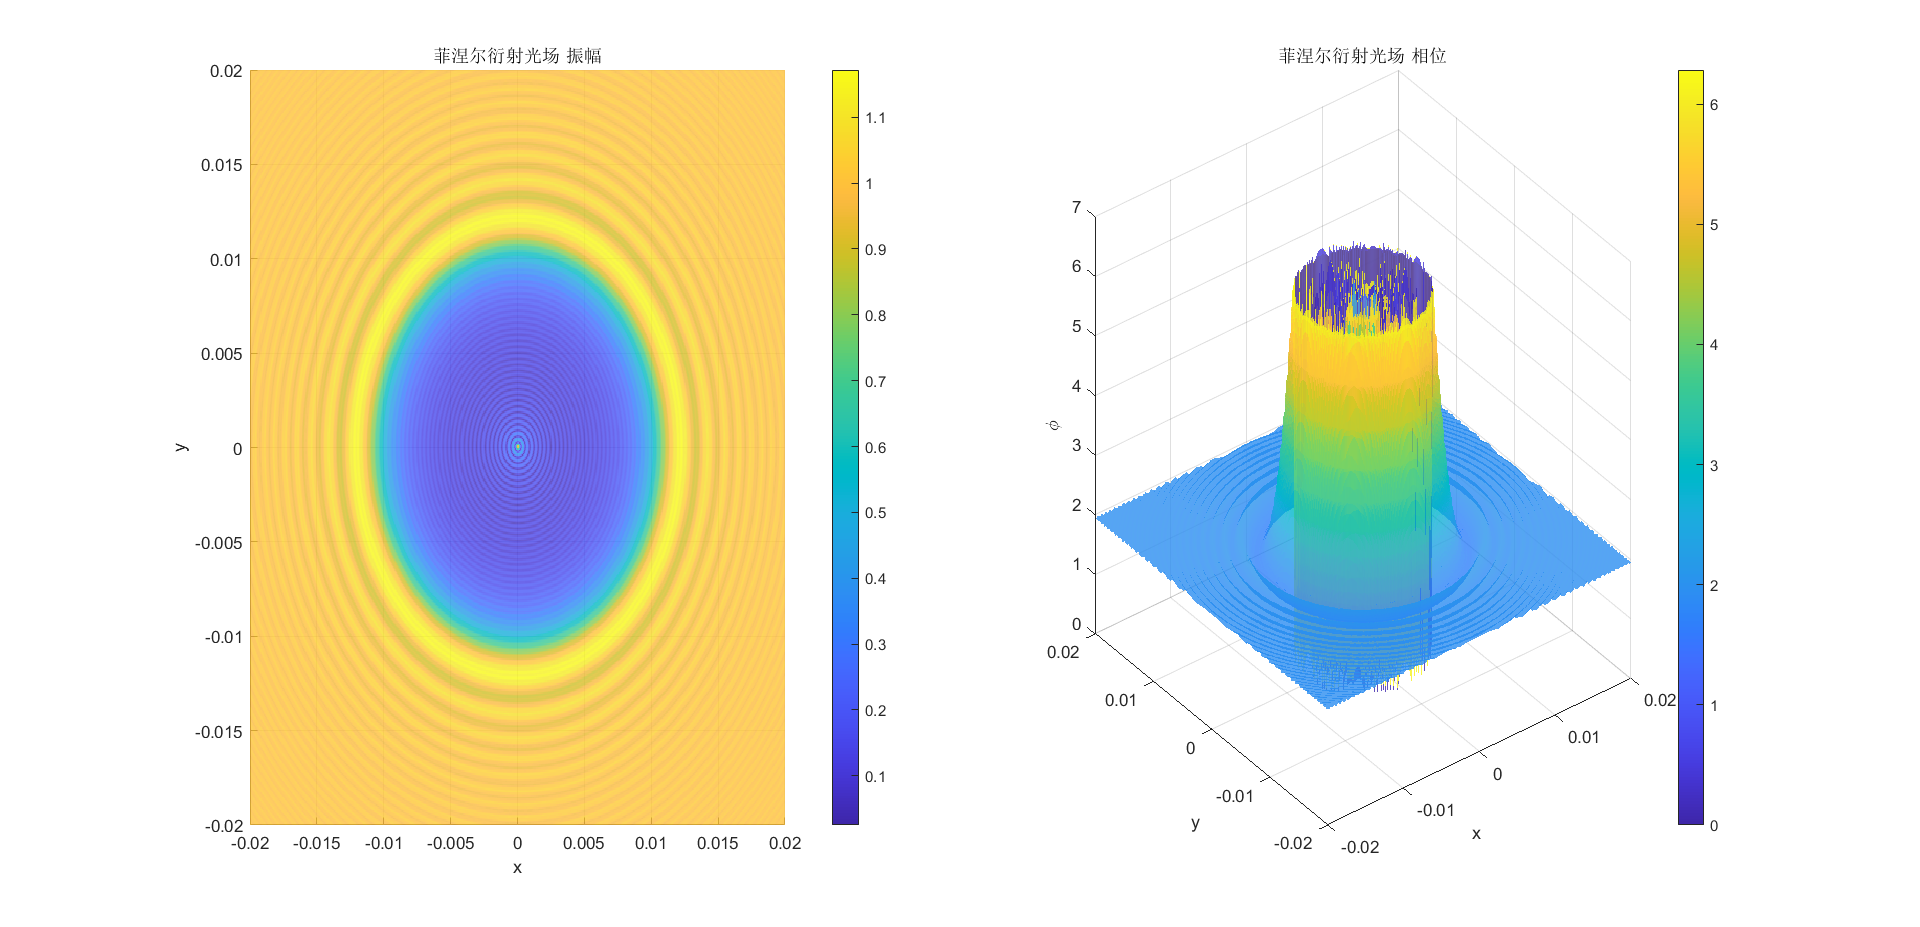
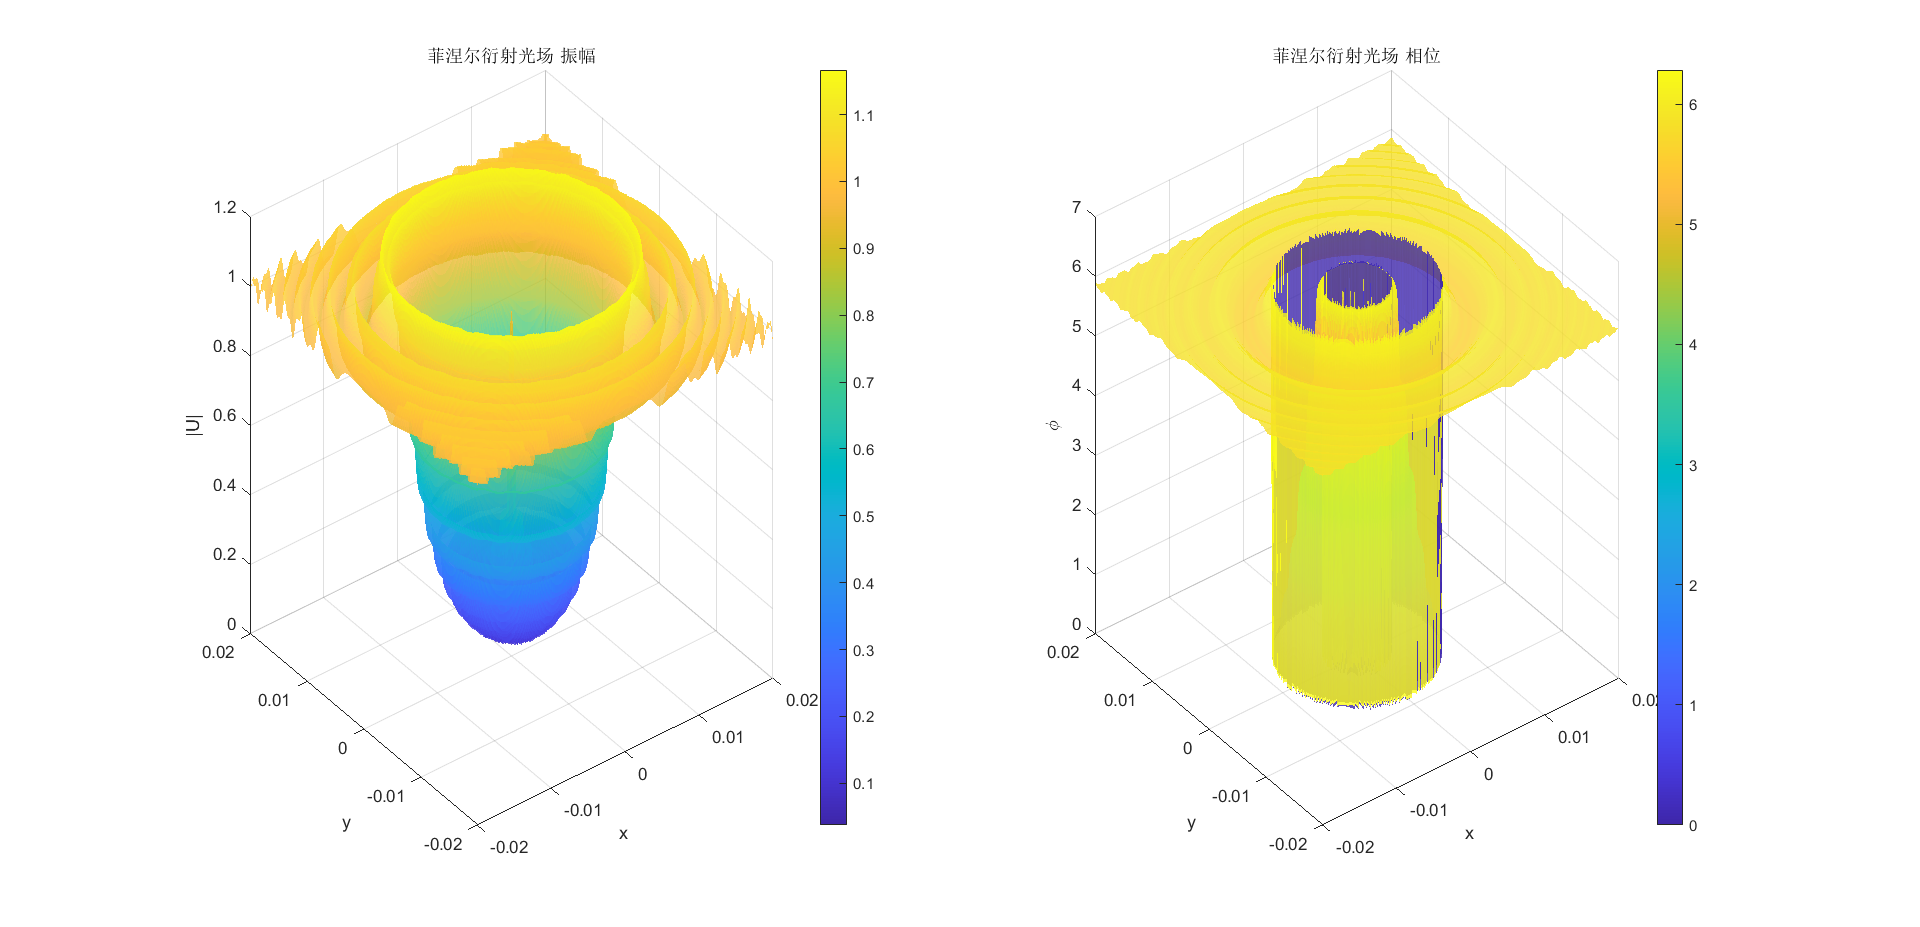
性能优化

diff --git a/task2_2.m b/task2_2.m
@@ -12,7 +12,7 @@ Xmin = -0.1;
 Xmax = 0.1;
 Ymin = -0.1;
 Ymax = 0.1;
-nn = 32; % 低分辨率
+nn = 1024; % 超高分辨率
 m = nn;
 n = nn;
 M = nn;
@@ -20,15 +20,15 @@ N = nn;
 
 ts = [];
 tic
-[Uc1, Ud1, Ud] = kirchhoff(Uc, xmin, xmax, ymin, ymax, m, n, lambda, z, Xmin, Xmax, Ymin, Ymax, M, N);
+% [Uc1, Ud1] = kirchhoff(Uc, xmin, xmax, ymin, ymax, m, n, lambda, z, Xmin, Xmax, Ymin, Ymax, M, N);
 ts(end+1) = toc; tic
-[Uc2, Ud2] = fresnel(Uc, xmin, xmax, ymin, ymax, m, n, lambda, z, Xmin, Xmax, Ymin, Ymax, M, N);
+% [Uc2, Ud2] = fresnel(Uc, xmin, xmax, ymin, ymax, m, n, lambda, z, Xmin, Xmax, Ymin, Ymax, M, N);
 ts(end+1) = toc; tic
-[Uc3, Ud3] = fresnel_fft(Uc, xmin, xmax, ymin, ymax, m, n, lambda, z, Xmin, Xmax, Ymin, Ymax, M, N);
+[Uc3, Ud3,] = fresnel_fft(Uc, xmin, xmax, ymin, ymax, m, n, lambda, z, Xmin, Xmax, Ymin, Ymax, M, N);
 ts(end+1) = toc; tic
-[Uc4, Ud4] = fraunhofer(Uc, xmin, xmax, ymin, ymax, m, n, lambda, z, Xmin, Xmax, Ymin, Ymax, M, N);
+% [Uc4, Ud4] = fraunhofer(Uc, xmin, xmax, ymin, ymax, m, n, lambda, z, Xmin, Xmax, Ymin, Ymax, M, N);
 ts(end+1) = toc; tic
-[Uc5, Ud5] = fraunhofer_fft(Uc, xmin, xmax, ymin, ymax, m, n, lambda, z, Xmin, Xmax, Ymin, Ymax, M, N);
+[Uc5, Ud5, Ud] = fraunhofer_fft(Uc, xmin, xmax, ymin, ymax, m, n, lambda, z, Xmin, Xmax, Ymin, Ymax, M, N);
 ts(end+1) = toc;
 
 x = linspace(xmin, xmax, m);
@@ -42,18 +42,18 @@ figs = [];
 figs(end+1) = subplot(3, 2, 1);
 surf(x, y, abs(Ud));
 title("初始光场U_0(x_0,y_0)")
-figs(end+1) = subplot(3, 2, 2);
-surf(X, Y, abs(Ud1));
-title("基尔霍夫衍射（SUM），用时："+ts(1)+"秒")
-figs(end+1) = subplot(3, 2, 3);
-surf(X, Y, abs(Ud2));
-title("菲涅尔衍射（SUM），用时："+ts(2)+"秒")
+% figs(end+1) = subplot(3, 2, 2);
+% surf(X, Y, abs(Ud1));
+% title("基尔霍夫衍射（SUM），用时："+ts(1)+"秒")
+% figs(end+1) = subplot(3, 2, 3);
+% surf(X, Y, abs(Ud2));
+% title("菲涅尔衍射（SUM），用时："+ts(2)+"秒")
 figs(end+1) = subplot(3, 2, 4);
 surf(X, Y, abs(Ud3));
 title("菲涅尔衍射（FFT），用时："+ts(3)+"秒")
-figs(end+1) = subplot(3, 2, 5);
-surf(X, Y, abs(Ud4));
-title("夫琅禾费衍射（SUM），用时："+ts(4)+"秒")
+% figs(end+1) = subplot(3, 2, 5);
+% surf(X, Y, abs(Ud4));
+% title("夫琅禾费衍射（SUM），用时："+ts(4)+"秒")
 figs(end+1) = subplot(3, 2, 6);
 surf(X, Y, abs(Ud5));
 title("夫琅禾费衍射（FFT），用时："+ts(5)+"秒")

diff --git a/kirchhoff.m b/kirchhoff.m
@@ -1,25 +1,22 @@
 function [Uc1, Ud1, Ud] = kirchhoff(Uc, xmin, xmax, ymin, ymax, m, n, lambda, z, Xmin, Xmax, Ymin, Ymax, M, N)
 %KIRCHHOFF 计算连续分布在特定取样条件下的基尔霍夫衍射积分初步近似
-%   小写字母为输入光场采样参数，大写字母为输入光场采样参数
+%   小写字母为输入光场采样参数，大写字母为输出光场采样参数
 %   lambda 波长
 %   z 传播距离
 
 k = 2 * pi / lambda;
-Ud = discretize(Uc, xmin, xmax, ymin, ymax, m, n);
+[Ud, x, y] = discretize(Uc, xmin, xmax, ymin, ymax, m, n);
 Ud1 = zeros(N, M);
-x = linspace(xmin, xmax, m);
-y = linspace(ymin, ymax, n);
-[x, y] = meshgrid(x, y);
 
 for i = 1:M
     X = (Xmax - Xmin) / (M - 1) * (i - 1) + Xmin;
     for j = 1:N
         Y = (Ymax - Ymin) / (N - 1) * (j - 1) + Ymin;
-        Ud1(j, i) = sum(Ud.*exp(1j*k*sqrt(z^2+(X - x).^2+(Y - y).^2)), "all");
+        Ud1(j, i) = sum(Ud.*exp(1j*k*sqrt(z^2+(x - X).^2+(y - Y).^2)), "all");
     end
 end
 
-Ud1 = Ud1/(1j * lambda * z) * (xmax - xmin) / (m - 1) * (ymax - ymin) / (n - 1);
+Ud1 = Ud1 / (1j * lambda * z) * (xmax - xmin) / (m - 1) * (ymax - ymin) / (n - 1);
 Uc1 = interpolate(Ud1, Xmin, Xmax, Ymin, Ymax);
 
 end

diff --git a/fraunhofer.m b/fraunhofer.m
@@ -5,11 +5,9 @@ function [Uc1, Ud1, Ud] = fraunhofer(Uc, xmin, xmax, ymin, ymax, m, n, lambda, z
 %   z 传播距离
 
 k = 2 * pi / lambda;
-Ud = discretize(Uc, xmin, xmax, ymin, ymax, m, n);
+[Ud, x, y] = discretize(Uc, xmin, xmax, ymin, ymax, m, n);
 Ud1 = zeros(N, M);
-x = linspace(xmin, xmax, m);
-y = linspace(ymin, ymax, n);
-[x, y] = meshgrid(x, y);
+
 for i = 1:M
     X = (Xmax - Xmin) / (M - 1) * (i - 1) + Xmin;
     for j = 1:N
@@ -21,7 +19,7 @@ end
 X = linspace(Xmin, Xmax, M);
 Y = linspace(Ymin, Ymax, N);
 [X, Y] = meshgrid(X, Y);
-Ud1 = Ud1 * exp(1j*k*z) / (1j * lambda * z) .* exp(1j * k * (X.^2 + Y.^2) / (2 * z)) * (xmax - xmin) / (m - 1) * (ymax - ymin) / (n - 1);
+Ud1 = Ud1 .* exp(1j*k*z+1j*k*(X.^2 + Y.^2)/(2 * z)) / (1j * lambda * z) * (xmax - xmin) / (m - 1) * (ymax - ymin) / (n - 1);
 Uc1 = interpolate(Ud1, Xmin, Xmax, Ymin, Ymax);
 
 end

diff --git a/myFFT2.m b/myFFT2.m
@@ -12,14 +12,15 @@ ix = 0:m - 1;
 iy = 0:n - 1;
 Ix = 0:M - 1;
 Iy = 0:N - 1;
+IX = [Ix, -m:-1];
+IY = [Iy, -n:-1];
 [ix, iy] = meshgrid(ix, iy);
 [Ix, Iy] = meshgrid(Ix, Iy);
+[IX, IY] = meshgrid(IX, IY);
 
 U1 = Ud .* exp(-1j*pi*(kx * kX * ix.^2 + ky * kY * iy.^2 + 2 * kx * Xmin * ix + 2 * ky * Ymin * iy));
-U1 = [U1, zeros(n, M); zeros(N, m+M)];
-U2 = [exp(1j*pi*(kx * kX * Ix.^2 + ky * kY * Iy.^2)), exp(1j*pi*(kx * kX * (ones(N, 1) .* (-m:-1)).^2 + ky * kY * ((0:N - 1)' .* ones(1, m)).^2)); ...
-    exp(1j*pi*(kx * kX * ((0:M - 1) .* ones(n, 1)).^2 + ky * kY * (ones(1, M) .* (-n:-1)').^2)), exp(1j*pi*(kx * kX * (ones(n, 1) .* (-m:-1)).^2 + ky * kY * (ones(1, m) .* (-n:-1)').^2))];
-
+U1(n+N, m+M) = 0;
+U2 = exp(1j*pi*(kx * kX * IX.^2 + ky * kY * IY.^2));
 Ud1 = ifft2(fft2(U1).*fft2(U2)); % 卷积定理
 % Ud1 = cconv2(U1, U2);
 

diff --git a/fresnel_fft.m b/fresnel_fft.m
@@ -5,10 +5,8 @@ function [Uc1, Ud1, Ud] = fresnel_fft(Uc, xmin, xmax, ymin, ymax, m, n, lambda, 
 %   z 传播距离
 
 k = 2 * pi / lambda;
-Ud = discretize(Uc, xmin, xmax, ymin, ymax, m, n);
-x = linspace(xmin, xmax, m);
-y = linspace(ymin, ymax, n);
-[x, y] = meshgrid(x, y);
+[Ud, x, y] = discretize(Uc, xmin, xmax, ymin, ymax, m, n);
+
 X = linspace(Xmin, Xmax, M);
 Y = linspace(Ymin, Ymax, N);
 [X, Y] = meshgrid(X, Y);
@@ -16,7 +14,7 @@ Y = linspace(Ymin, Ymax, N);
 t = 1 / (lambda * z); % 缩放因子
 Ud1 = myFFT2(Ud.*exp(1j*k/(2 * z)*(x.^2 + y.^2)), xmin, xmax, ymin, ymax, Xmin*t, Xmax*t, Ymin*t, Ymax*t, M, N);
 
-Ud1 = Ud1 * exp(1j*k*z) / (1j * lambda * z) .* exp(1j*k/(2 * z)*(X.^2 + Y.^2));
+Ud1 = Ud1 .* exp(1j*k*z+1j*k/(2 * z)*(X.^2 + Y.^2)) / (1j * lambda * z);
 Uc1 = interpolate(Ud1, Xmin, Xmax, Ymin, Ymax);
 
 end

diff --git a/discretize.m b/discretize.m
@@ -1,11 +1,20 @@
-function Ud = discretize(Uc, xmin, xmax, ymin, ymax, M, N)
+function [Ud, X, Y] = discretize(Uc, xmin, xmax, ymin, ymax, M, N)
 %DISCRETIZE 对给定连续分布离散取样
 %   Uc(x,y) 连续分布函数 Ud(X,Y) 离散分布矩阵
 %   xmin,xmax,ymin,ymax x,y方向分布范围
 %   M,N x,y方向离散取点数
-Ud = zeros(N, M);
-for i = 1:M
-    Ud(:, i) = arrayfun(@(y)Uc((xmax - xmin)/(M - 1)*(i - 1)+xmin, y), linspace(ymin, ymax, N));
-end
+
+% 未矢量化的方法
+% Ud = zeros(N, M);
+% for i = 1:M
+%     Ud(:, i) = arrayfun(@(y)Uc((xmax - xmin)/(M - 1)*(i - 1)+xmin, y), linspace(ymin, ymax, N));
+% end
+
+% 默认已矢量化
+X = linspace(xmin, xmax, M);
+Y = linspace(ymin, ymax, N);
+[X, Y] = meshgrid(X, Y);
+
+Ud = Uc(X, Y);
 
 end

diff --git a/fraunhofer_fft.m b/fraunhofer_fft.m
@@ -6,9 +6,7 @@ function [Uc1, Ud1, Ud] = fraunhofer_fft(Uc, xmin, xmax, ymin, ymax, m, n, lambd
 
 k = 2 * pi / lambda;
 Ud = discretize(Uc, xmin, xmax, ymin, ymax, m, n);
-% x = linspace(xmin, xmax, m);
-% y = linspace(ymin, ymax, n);
-% [x, y] = meshgrid(x, y);
+
 X = linspace(Xmin, Xmax, M);
 Y = linspace(Ymin, Ymax, N);
 [X, Y] = meshgrid(X, Y);
@@ -16,7 +14,7 @@ Y = linspace(Ymin, Ymax, N);
 t = 1 / (lambda * z); % 缩放因子
 Ud1 = myFFT2(Ud, xmin, xmax, ymin, ymax, Xmin*t, Xmax*t, Ymin*t, Ymax*t, M, N);
 
-Ud1 = Ud1 * exp(1j*k*z) / (1j * lambda * z) .* exp(1j*k/(2 * z)*(X.^2 + Y.^2));
+Ud1 = Ud1 .* exp(1j*k*z+1j*k/(2 * z)*(X.^2 + Y.^2)) / (1j * lambda * z);
 Uc1 = interpolate(Ud1, Xmin, Xmax, Ymin, Ymax);
 
 end

diff --git a/task5.m b/task5.m
@@ -3,7 +3,7 @@ clear, clc, close all
 
 lambda = 633e-9; % 波长
 r = 1e-2; % 圆盘半径
-z = 10; % 传播距离
+z = 30; % 传播距离
 Xmin = -2 * r;
 Xmax = 2 * r;
 Ymin = -2 * r;
@@ -14,7 +14,7 @@ xmin = -r;
 xmax = r;
 ymin = -r;
 ymax = r;
-Uc = @(x, y)x^2 + y^2 < r^2;
+Uc = @(x, y)x.^2 + y.^2 < r^2;
 
 
 m = nn;
@@ -24,6 +24,8 @@ N = nn;
 
 [~, Ud1, Ud] = fresnel_fft(Uc, xmin, xmax, ymin, ymax, m, n, lambda, z, Xmin, Xmax, Ymin, Ymax, M, N);
 [~, Ud2] = fraunhofer_fft(Uc, xmin, xmax, ymin, ymax, m, n, lambda, z, Xmin, Xmax, Ymin, Ymax, M, N);
+
+% 互补原理
 Ud = 1 - Ud;
 Ud1 = exp(1j*2*pi*z/lambda) - Ud1;
 Ud2 = exp(1j*2*pi*z/lambda) - Ud2;

diff --git a/task3_1.m b/task3_1.m
@@ -2,14 +2,14 @@
 clear, clc, close all
 
 lambda = 633e-9; % 波长
-a = 1e-5; % 缝宽
-d = 1e-4; % 缝间距
-c = 1; % 缝长度
-z = 1; % 传播距离
-Xmin = -0.02;
-Xmax = 0.02;
-Ymin = -0.1;
-Ymax = 0.1; % 观察屏范围
+a = 1e-4; % 缝宽
+d = 1e-3; % 缝间距
+c = d; % 缝长度
+z = 5; % 传播距离
+Xmin = -lambda * z / d * 20;
+Xmax = -Xmin;
+Ymin = -c * 10;
+Ymax = c * 10; % 观察屏范围
 nn = 512; % 高分辨率
 
 xmin = -a / 2 - d / 2;

diff --git a/task3_2.m b/task3_2.m
@@ -2,14 +2,14 @@
 clear, clc, close all
 
 lambda = 633e-9; % 波长
-a = 1e-7; % 缝宽
-d = 1e-4; % 缝间距
-c = 1; % 缝长度
-z = 1; % 传播距离
-Xmin = -0.01;
-Xmax = 0.01;
-Ymin = -1;
-Ymax = 1; % 观察屏范围
+a = 1e-4; % 缝宽
+d = 1e-3; % 缝间距
+c = d; % 缝长度
+z = 5; % 传播距离
+Xmin = -lambda * z / d * 20;
+Xmax = -Xmin;
+Ymin = -c * 10;
+Ymax = c * 10; % 观察屏范围
 nn = 512; % 高分辨率
 
 m = nn;

diff --git a/fresnel.m b/fresnel.m
@@ -5,11 +5,9 @@ function [Uc1, Ud1, Ud] = fresnel(Uc, xmin, xmax, ymin, ymax, m, n, lambda, z, X
 %   z 传播距离
 
 k = 2 * pi / lambda;
-Ud = discretize(Uc, xmin, xmax, ymin, ymax, m, n);
+[Ud, x, y] = discretize(Uc, xmin, xmax, ymin, ymax, m, n);
 Ud1 = zeros(N, M);
-x = linspace(xmin, xmax, m);
-y = linspace(ymin, ymax, n);
-[x, y] = meshgrid(x, y);
+
 for i = 1:M
     X = (Xmax - Xmin) / (M - 1) * (i - 1) + Xmin;
     for j = 1:N

diff --git a/myFFT1.m b/myFFT1.m
@@ -6,11 +6,11 @@ kx = (xmax - xmin) / (m - 1);
 kX = (Xmax - Xmin) / (M - 1);
 ix = 0:m - 1;
 Ix = 0:M - 1;
+IX = [Ix, -m:-1];
 
 U1 = Ud .* exp(-1j*pi*(kx * kX * ix.^2 + 2 * kx * Xmin * ix));
-U1 = [U1, zeros(1, M)];
-U2 = exp(1j*pi*kx*kX.*Ix.^2);
-U2 = [U2, exp(1j*pi*kx*kX.*(-m:-1).^2)];
+U1(1, m+M) = 0;
+U2 = exp(1j*pi*kx*kX.*IX.^2);
 
 Ud1 = ifft(fft(U1).*fft(U2)); % 卷积定理
 % Ud1 = cconv(U1, U2, m+M);
